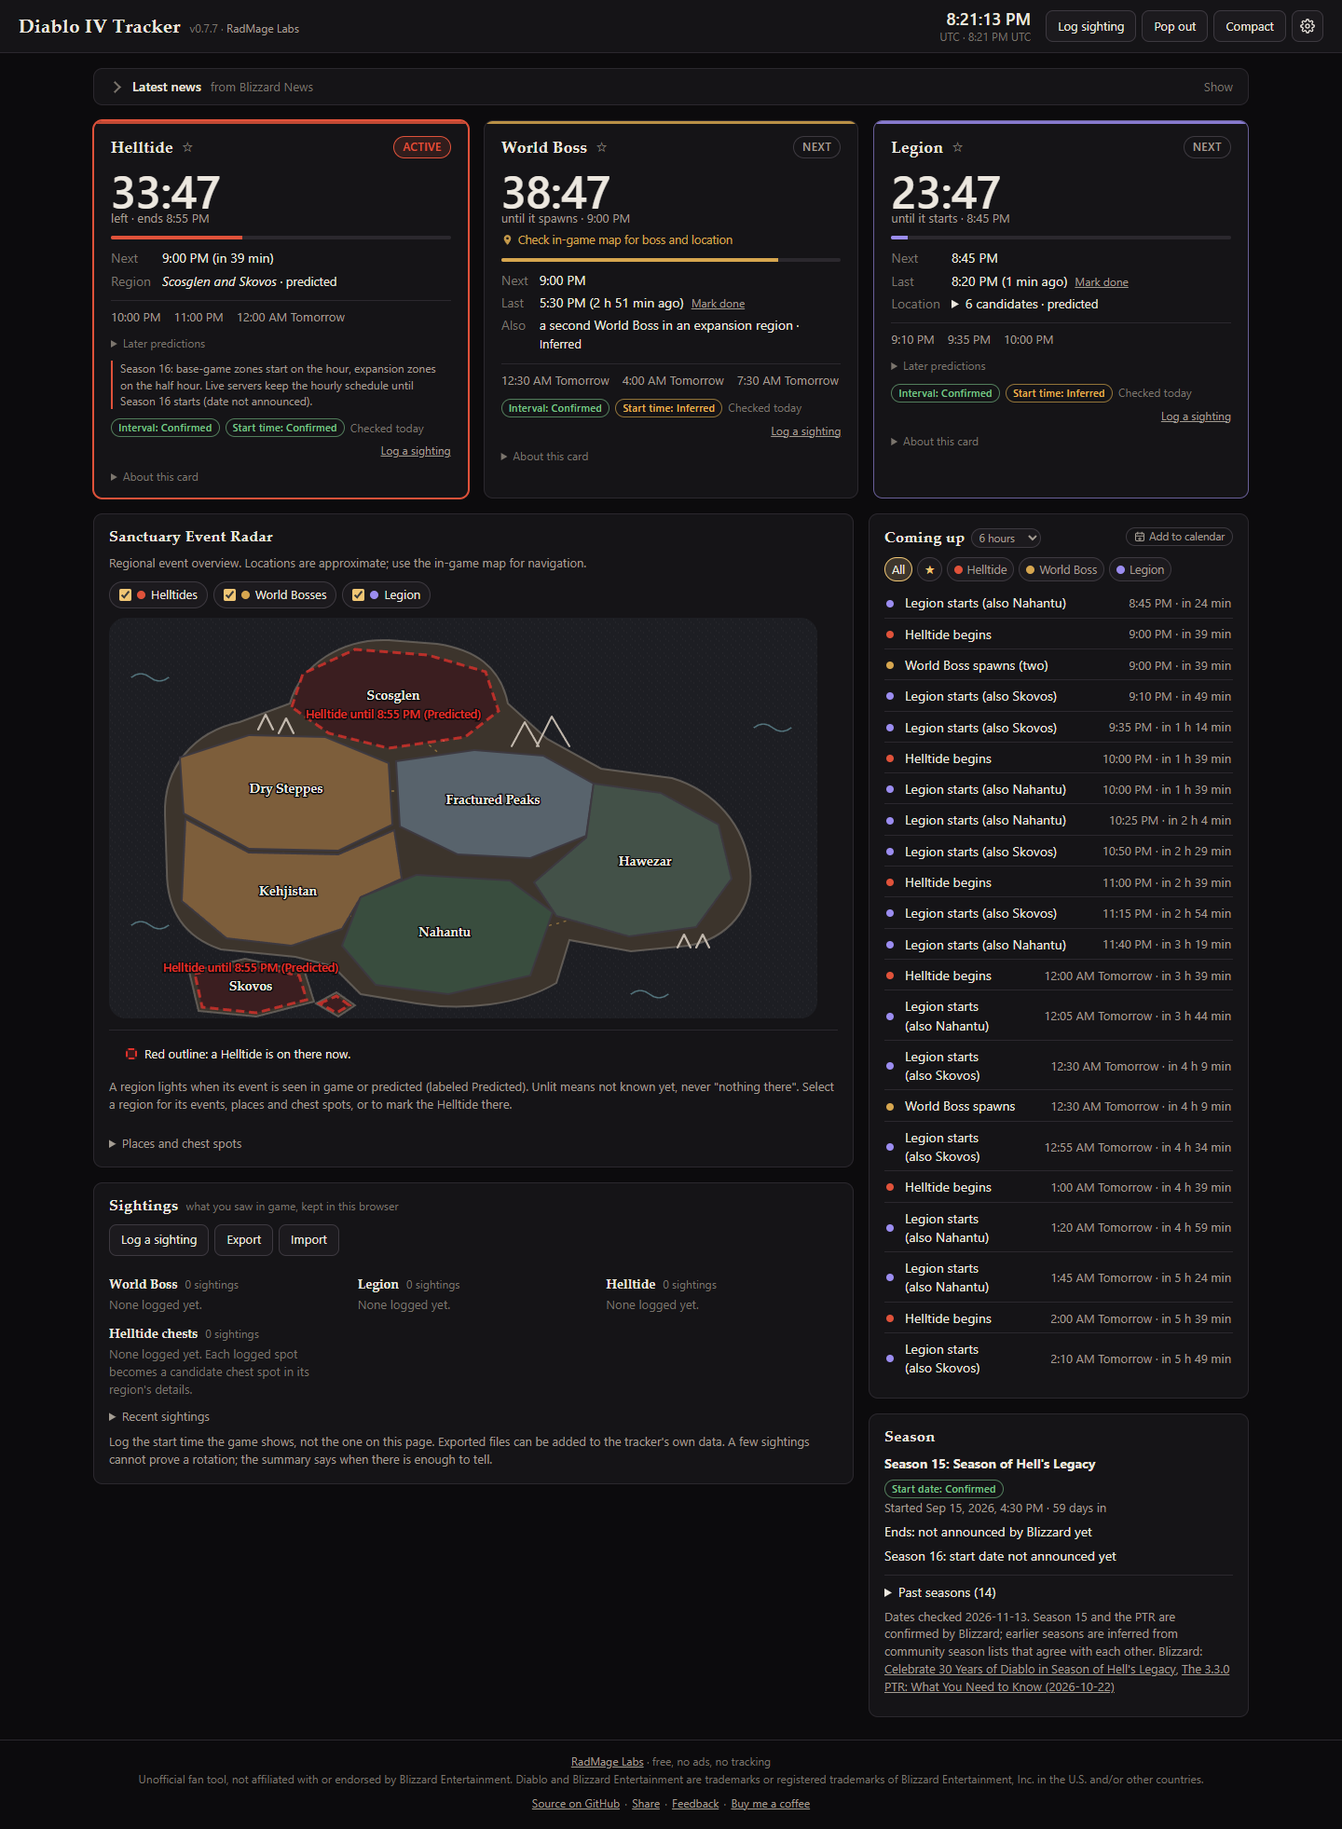
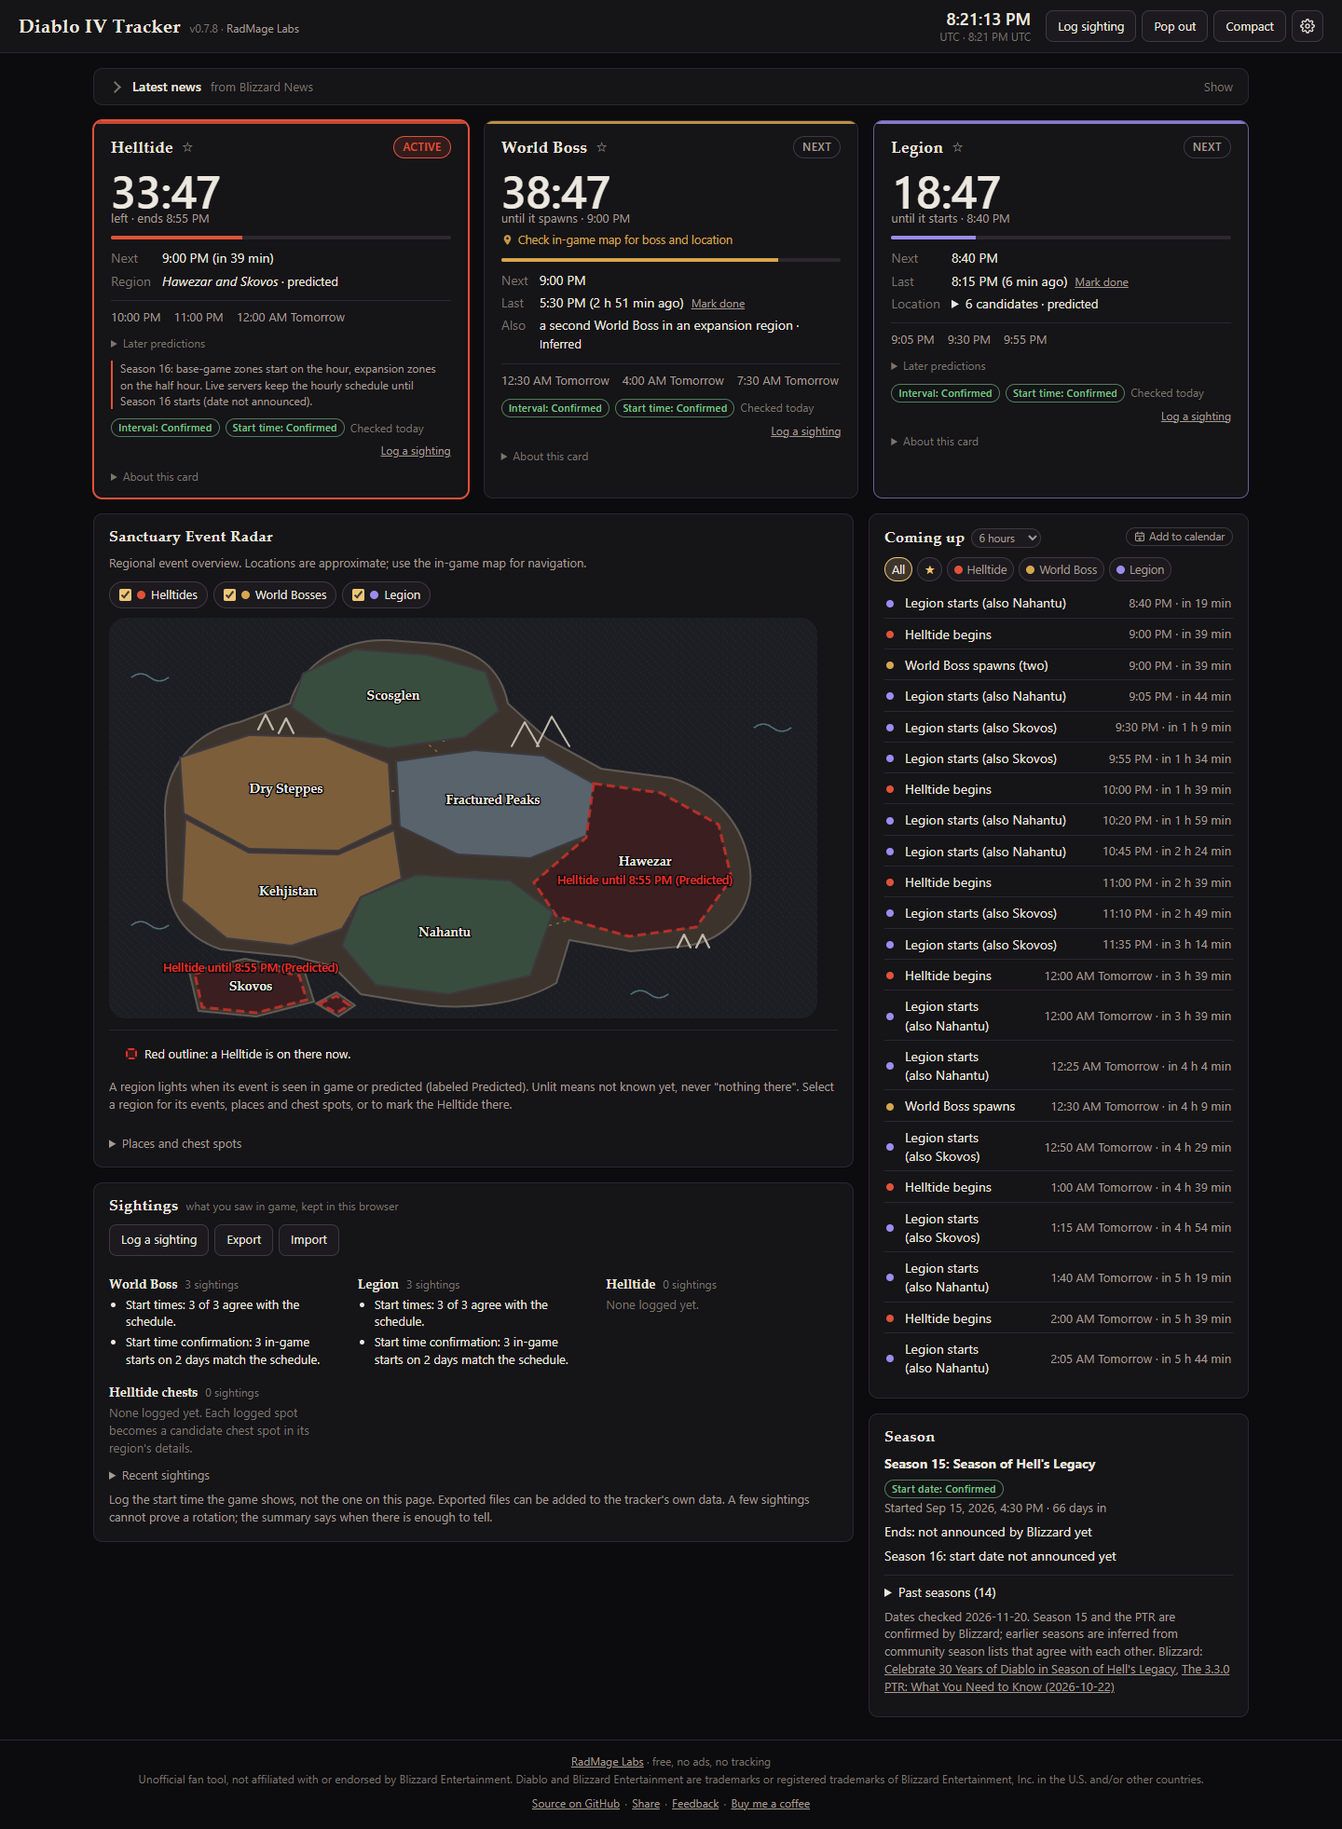
Diablo IV Tracker v0.7.8: World Boss and Legion start times confirmed in game, quieter Sightings panel, rules checked November 20
- World Boss and Legion start times Confirmed: 3 in-game starts on 2 UTC days each, none against;
  published as start times only in data/observations.json.
- Outside cross-check fixture deleted, as planned once both start times qualified.
- Sightings panel order notes wait for the visitor's own sightings; labels match the cards.
- Card line "In-game sightings"; rules and season dates rechecked 2026-11-20; README screenshot v0.7.8.

diff --git a/tests/verification.test.ts b/tests/verification.test.ts
@@ -9,6 +9,8 @@ const defs = eventDefinitions();
 const segs = (kind: 'worldBoss' | 'legion') => defs.find((d) => d.kind === kind)!.segments;
 // World Boss spawns calculated from the data: 2026-10-24 04:00 UTC and every 210 minutes.
 const wbSpawn = (n: number) => new Date(Date.UTC(2026, 9, 24, 4, 0) + n * 210 * MIN);
+// Legion starts: 2026-10-24 02:00 UTC and every 25 minutes.
+const lgStart = (n: number) => new Date(Date.UTC(2026, 9, 24, 2, 0) + n * 25 * MIN);
 
 let seq = 0;
 function start(at: Date, event: Observation['event'] = 'worldBoss', offsetMs = 0): Observation {
@@ -91,11 +93,26 @@ describe('the data refuses to over-claim', () => {
     return f;
   };
 
-  it('the shared sightings agree with the schedule, and are too few to confirm a start time', () => {
+  it('the shared sightings agree with the schedule and are enough to confirm both start times', () => {
     expect(crossCheck(EVENTS, SHARED_SIGHTINGS)).toEqual([]);
     for (const kind of ['worldBoss', 'legion'] as const) {
-      expect(anchorEvidence(SHARED_SIGHTINGS, segs(kind), kind).qualifies).toBe(false);
+      const e = anchorEvidence(SHARED_SIGHTINGS, segs(kind), kind);
+      expect(e).toEqual({ matching: 3, days: ['2026-10-24', '2026-11-20'], disagreeing: 0, qualifies: true });
     }
+  });
+
+  it('needs every shared start: without any one of them, Confirmed is refused', () => {
+    for (const o of SHARED_SIGHTINGS) {
+      const rest = SHARED_SIGHTINGS.filter((x) => x !== o);
+      expect(crossCheck(EVENTS, rest).join(), o.id).toMatch(new RegExp(`${o.event} schedule 0 phase: confirmed by sightings needs 3 matching starts on 2 days`));
+    }
+  });
+
+  it('refuses the shared data if a start is moved off the schedule, or no longer counts as seen', () => {
+    const moved = SHARED_SIGHTINGS.map((o, i) => (i === 0 ? { ...o, at: new Date(Date.parse(o.at) + 3 * MIN).toISOString() } : o));
+    expect(crossCheck(EVENTS, moved).join()).toMatch(/1 shared sighting\(s\) disagree with the schedule/);
+    const reported = SHARED_SIGHTINGS.map((o, i) => (i === 0 ? { ...o, provenance: 'reported' as const } : o));
+    expect(crossCheck(EVENTS, reported).join()).toMatch(/confirmed by sightings needs 3 matching starts on 2 days \(have 2 on 2\)/);
   });
 
   it('a shared record that came from a third party counts only once checked in game', () => {
@@ -113,7 +130,9 @@ describe('the data refuses to over-claim', () => {
   });
 
   it('accepts it with 3 matching starts on 2 days', () => {
-    expect(crossCheck(confirmBySightings(), [start(wbSpawn(0)), start(wbSpawn(1)), start(wbSpawn(7))])).toEqual([]);
+    // The Legion start time is confirmed by sightings too, so it needs its own three.
+    const legion = [0, 1, 60].map((n) => start(lgStart(n), 'legion'));
+    expect(crossCheck(confirmBySightings(), [start(wbSpawn(0)), start(wbSpawn(1)), start(wbSpawn(7)), ...legion])).toEqual([]);
   });
 
   it('rejects shared sightings that disagree with the schedule', () => {
@@ -159,7 +178,8 @@ describe('retiring the outside cross-check', () => {
   const covered = (['worldBoss', 'legion'] as const).every((k) => anchorEvidence(SHARED_SIGHTINGS, segs(k), k).qualifies);
 
   it('the outside fixture must be deleted once our own sightings confirm both anchors', () => {
-    // Today our sightings do not cover the anchors yet, so the fixture stays as a cross-check.
+    // Since v0.7.8 our sightings confirm both anchors, and the outside fixture is gone.
+    expect(covered).toBe(true);
     if (covered) expect(fixtures, 'our sightings now confirm both anchors: delete the outside cross-check fixture').toEqual([]);
     else expect(fixtures.length).toBeLessThanOrEqual(1);
   });

diff --git a/tests/events.test.ts b/tests/events.test.ts
@@ -2,22 +2,9 @@ import { describe, expect, it } from 'vitest';
 import { OfflineDetailsSource } from '../src/adapters/offline-details';
 import { DETAIL_REASONS, eventDefinitions } from '../src/data';
 import { eventStatus, type EventDefinition, type EventKind } from '../src/engine/events';
-import { nextAfter, startsBetween, type PeriodicSchedule } from '../src/engine/schedule';
+import type { PeriodicSchedule } from '../src/engine/schedule';
 
 const EVENT_DEFINITIONS = eventDefinitions();
-// A temporary outside cross-check (see its _about). The tests over it run only while it exists, so
-// deleting it once our own sightings confirm the anchors leaves the rest of the suite intact.
-interface CrossCheck {
-  helltides_schedule: Record<'worldBoss' | 'legion' | 'helltide', string[]>;
-  diablo4_life_next_world_boss: string;
-  d4guides_world_boss_baseline_unix: number;
-  d4guides_world_boss_pending_seconds: number;
-  diablo_companion_anchor_unix: { worldBoss: number; legion: number };
-  helltime_anchor_unix: { worldBoss: number; legion: number };
-}
-const external = Object.values(import.meta.glob('./fixtures/external-crosscheck-*.json', { eager: true, import: 'default' }))[0] as
-  CrossCheck | undefined;
-
 const MIN = 60000;
 
 function def(kind: EventKind): EventDefinition {
@@ -28,35 +15,9 @@ function def(kind: EventKind): EventDefinition {
 const sched = (kind: EventKind): PeriodicSchedule => def(kind).segments[0]!.schedule;
 const offline = new OfflineDetailsSource(DETAIL_REASONS);
 
-describe.skipIf(!external)('outside cross-check: schedules agree with times other trackers published for 2026-10-24', () => {
-  const observed = external!;
-  for (const [kind, key] of [['worldBoss', 'worldBoss'], ['legion', 'legion'], ['helltide', 'helltide']] as const) {
-    it(`${kind}: every observed start is a calculated start, and none is missing in that span`, () => {
-      const times = observed.helltides_schedule[key].map((t) => Date.parse(t));
-      const first = Math.min(...times);
-      const last = Math.max(...times);
-      const calculated = startsBetween(sched(kind), first, last + 1).map((o) => o.startMs);
-      expect(calculated).toEqual([...times].sort((a, b) => a - b));
-    });
-  }
-
-  it('diablo4.life\'s next World Boss is a calculated spawn', () => {
-    const t = Date.parse(observed.diablo4_life_next_world_boss);
-    expect(nextAfter(sched('worldBoss'), t - 1).startMs).toBe(t);
-  });
-
-  it('d4guides\' baseline (pending start + 30 min) is a calculated spawn', () => {
-    const t = (observed.d4guides_world_boss_baseline_unix + observed.d4guides_world_boss_pending_seconds) * 1000;
-    expect(nextAfter(sched('worldBoss'), t - 1).startMs).toBe(t);
-  });
-
-  it('the open-source anchors (one from 2023, one from 2026) land on calculated starts', () => {
-    for (const a of [observed.diablo_companion_anchor_unix, observed.helltime_anchor_unix]) {
-      expect(nextAfter(sched('worldBoss'), a.worldBoss * 1000 - 1).startMs).toBe(a.worldBoss * 1000);
-      expect(nextAfter(sched('legion'), a.legion * 1000 - 1).startMs).toBe(a.legion * 1000);
-    }
-  });
-
+// The start times are checked against our own in-game sightings (tests/verification.test.ts); the
+// outside cross-check that stood in for them until then was deleted in v0.7.8.
+describe('the schedules follow the published cycle rules', () => {
   it('matches the published cycle rules: boss at unix mod 12600 = 10800, Legion at mod 1500 = 1200', () => {
     expect((sched('worldBoss').anchorMs / 1000) % 12600).toBe(10800);
     expect((sched('legion').anchorMs / 1000) % 1500).toBe(1200);

diff --git a/tests/data.test.ts b/tests/data.test.ts
@@ -28,10 +28,14 @@ describe('the repository data passes its checks', () => {
     }
   });
 
-  it('marks the World Boss and Legion start times inferred until we observe them in game', () => {
+  it('marks the World Boss and Legion start times confirmed by our own in-game checks, not by Blizzard', () => {
     for (const id of ['worldBoss', 'legion'] as const) {
       const phase = EVENTS.events.find((e) => e.id === id)!.schedules[0]!.phase;
-      expect(phase.confidence).toBe('inferred');
+      expect(phase.confidence).toBe('confirmed');
+      expect(phase.sources.some((s) => s.kind === 'observation')).toBe(true);
+      // No Blizzard source, so the cross-check on the shared sightings is what allows it.
+      expect(phase.sources.some((s) => s.kind === 'blizzard')).toBe(false);
+      expect(phase.note).toMatch(/in-game countdown/);
     }
   });
 
@@ -42,8 +46,15 @@ describe('the repository data passes its checks', () => {
     }
   });
 
-  it('starts with no shared sightings and no chest locations (Dos keeps his own sightings private)', () => {
-    expect(SHARED_SIGHTINGS).toEqual([]);
+  it('shares start times only, and no chest locations (Dos keeps the rest of his sightings private)', () => {
+    expect(SHARED_SIGHTINGS.length).toBeGreaterThan(0);
+    for (const o of SHARED_SIGHTINGS) {
+      expect(Object.keys(o).sort()).toEqual(['at', 'event', 'id', 'note', 'recordedAt', 'timing']);
+      expect(['worldBoss', 'legion']).toContain(o.event);
+      expect(o.timing).toBe('start');
+      // Says how the start was read: from the in-game countdown, or that it was not recorded.
+      expect(o.note).toMatch(/^(Derived from the in-game countdown \(.+\), not a (start|spawn) watched|Checked in game at this spawn; how the start time was read was not recorded)\.$/);
+    }
     expect(LOCATIONS.helltideChests).toEqual([]);
   });
 });
@@ -51,7 +62,9 @@ describe('the repository data passes its checks', () => {
 describe('the checks catch bad edits', () => {
   it('rejects "confirmed" backed only by community sources', () => {
     const bad: EventsFile = clone(EVENTS);
-    bad.events[1]!.schedules[0]!.phase.confidence = 'confirmed';
+    const phase = bad.events[1]!.schedules[0]!.phase;
+    phase.confidence = 'confirmed';
+    phase.sources = phase.sources.filter((s) => s.kind === 'community');
     expect(checkEvents(bad).join()).toMatch(/worldBoss schedule 0 phase: confirmed needs a Blizzard source or our own in-game observation/);
   });
 

diff --git a/src/ui/sightings.ts b/src/ui/sightings.ts
@@ -143,8 +143,10 @@ export class SightingsPanel {
       }
       const reported = mine.filter((o) => !isSeen(o)).length;
       if (reported) lines.push(h('li', {}, `${reported} secondhand report${reported === 1 ? '' : 's'}: shown on the cards for their own event, never used as evidence.`));
-      if (mine.length) {
-        for (const o of this.hooks.orders(kind)) lines.push(h('li', { class: o.confidence === 'unknown' ? '' : 'ok' }, badge(o.label, o.confidence), ` ${o.text}`));
+      // The order notes wait for the visitor's own sightings of this event: the shared start times
+      // alone do not bring them out. Each card's About this card explains them either way.
+      if (this.hooks.local().some((o) => o.event === event)) {
+        for (const o of this.hooks.orders(kind)) lines.push(h('li', { class: o.confidence === 'unknown' ? '' : 'ok' }, badge(o.label, o.confidence, o.status), ` ${o.text}`));
       }
       return h('div', {},
         h('h3', {}, `${EVENT_NAMES[event]} `, h('span', { class: 'note' }, `${mine.length} sighting${mine.length === 1 ? '' : 's'}`)),

diff --git a/src/ui/cards.ts b/src/ui/cards.ts
@@ -355,7 +355,7 @@ export class EventCard {
     this.about.replaceChildren(...nodes(
       seg ? claimBlock('Interval', seg.interval, null) : null,
       seg ? claimBlock('Start time', seg.phase, phaseExtra) : null,
-      extras.sightings ? h('p', { class: 'claim' }, `Your sightings: ${extras.sightings}`) : null,
+      extras.sightings ? h('p', { class: 'claim' }, `In-game sightings: ${extras.sightings}`) : null,
       unknowns.length ? h('div', { class: 'claim' }, h('p', {}, badge('Location', 'unknown')),
         ...unknowns.map((u) => h('p', { class: 'source' }, u.reason))) : null,
       ...extras.orders.map((o) => h('div', { class: 'claim order-note' }, h('p', {}, badge(o.label, o.confidence, o.status), ` ${o.text}`))),

diff --git a/index.html b/index.html
@@ -33,7 +33,7 @@
   <header class="topbar">
     <div class="brand">
       <h1>Diablo IV Tracker</h1>
-      <span class="tag">v0.7.7 · <a href="https://radmagelabs.com/">RadMage Labs</a></span>
+      <span class="tag">v0.7.8 · <a href="https://radmagelabs.com/">RadMage Labs</a></span>
     </div>
     <div class="clock" id="clock" aria-label="Current time">
       <div class="now" id="clock-now">--:--</div>

diff --git a/README.md b/README.md
@@ -8,7 +8,7 @@ browser from rules kept in this repository; it does not depend on any other trac
 
 Live at https://radmagelabs.com/d4/
 
-![Diablo IV Tracker v0.7.7 at 8:21 PM UTC on a first visit: the Latest news bar from Blizzard News, closed, above the cards; an active Helltide with 33:47 left, predicted in Scosglen and Skovos, which the Sanctuary Event Radar outlines in red; the World Boss in 38:47 with a second World Boss in an expansion region, a Mark done link on the last spawn and a prompt to check the in-game map for boss and location; the next Legion in 23:47 with its six candidate sites folded, four base-game and two expansion; each card marked Checked today; six hours of coming-up starts with a how-far-ahead dropdown, Add to calendar, and All, starred, Helltide, World Boss and Legion picks, each Legion with its predicted expansion region; the empty sightings log; the Season 15 panel with dates checked 2026-11-13 and the ended 3.3.0 PTR folded under Past seasons; and the footer, ending with Source on GitHub, Share, Feedback and Buy me a coffee](screenshots/dashboard.png)
+![Diablo IV Tracker v0.7.8 at 8:21 PM UTC on a first visit: the Latest news bar from Blizzard News, closed, above the cards; an active Helltide with 33:47 left, predicted in Hawezar and Skovos, which the Sanctuary Event Radar outlines in red; the World Boss in 38:47 with a second World Boss in an expansion region, a Mark done link on the last spawn and a prompt to check the in-game map for boss and location; the next Legion in 18:47 with its six candidate sites folded; each card marked Start time: Confirmed and Checked today; six hours of coming-up starts with a how-far-ahead dropdown, Add to calendar, and All, starred, Helltide, World Boss and Legion picks, each Legion with its predicted expansion region; the sightings log with the shared start-time checks, 3 of 3 agreeing with the schedule for the World Boss and for the Legion; the Season 15 panel with dates checked 2026-11-20 and Past seasons folded; and the footer, ending with Source on GitHub, Share, Feedback and Buy me a coffee](screenshots/dashboard.png)
 
 ## What it shows
 
@@ -85,13 +85,21 @@ Every piece of data carries one of three labels, shown as badges on the page:
 | Event | Interval | Where the cycle starts |
 | --- | --- | --- |
 | Helltide | every hour, active 55 minutes (Confirmed, patch 1.3.0) | on the hour, UTC (Confirmed, same note) |
-| World Boss | every 3.5 hours (Confirmed, patch 1.2.0) | Unix time mod 12600 = 10800, e.g. 04:00, 07:30, 11:00 UTC on 2026-10-24 (Inferred) |
-| Legion | every 25 minutes (Confirmed, patch 1.2.0) | Unix time mod 1500 = 1200, e.g. 01:35, 02:00, 02:25 UTC (Inferred) |
+| World Boss | every 3.5 hours (Confirmed, patch 1.2.0) | Unix time mod 12600 = 10800, e.g. 04:00, 07:30, 11:00 UTC on 2026-10-24 (Confirmed, in-game checks) |
+| Legion | every 25 minutes (Confirmed, patch 1.2.0) | Unix time mod 1500 = 1200, e.g. 01:35, 02:00, 02:25 UTC (Confirmed, in-game checks) |
 
-Blizzard publishes the intervals but not where the World Boss and Legion cycles start. Those start
-points are marked Inferred until our own in-game sightings confirm them: **at least three in-game
-starts that match the schedule, on at least two different (UTC) days, and none that disagree.** The
-data checks refuse a Confirmed start point without that, and the cards show the progress.
+Blizzard publishes the intervals but not where the World Boss and Legion cycles start. A start point
+is Confirmed only by my own in-game checks: **at least three in-game starts that match the
+schedule, on at least two different (UTC) days, and none that disagree.** Both met that on
+November 20, 2026:
+
+- World Boss: October 24 at 14:30 and 21:30 UTC, November 20 at 07:00 UTC.
+- Legion: October 24 at 19:55 and 20:45 UTC, November 20 at 06:05 UTC.
+
+Five of the six were read from the in-game countdown, to the second, not watched as they began;
+the October 24, 14:30 spawn was checked in game without its countdown noted. They are published in
+`data/observations.json`, start times only. The data checks refuse a Confirmed start point without
+enough of them, and a card shows the progress while a start point is still Inferred.
 
 Every fourth World Boss spawn (Unix time mod 50400 = 10800, every 14 hours) brings a second boss in
 an expansion region. That is Inferred: Blizzard does not document it, and every dated first-hand

diff --git a/CHANGELOG.md b/CHANGELOG.md
@@ -1,5 +1,32 @@
 # Changelog
 
+## v0.7.8 (2026-11-20)
+
+- The World Boss and Legion start times are Confirmed. Blizzard publishes the intervals but not
+  where the cycles start, so they were Inferred until my own in-game checks met the rule: at least
+  three matching starts on two different UTC days, none against. World Boss: October 24 at 14:30
+  and 21:30 UTC and November 20 at 07:00 UTC. Legion: October 24 at 19:55 and 20:45 UTC and
+  November 20 at 06:05 UTC. Five of the six were read from the in-game countdown, to the second,
+  not watched as they began; the cards say so.
+- Those six start times are published in `data/observations.json`, the start time only: no place,
+  boss, region or screenshot. The data checks still refuse Confirmed without them, and the tests
+  show that removing any one of them, or moving one off the schedule, brings the refusal back.
+- The outside cross-check (start times read from other trackers in October, kept only for the
+  tests until my own checks covered both start times) is deleted, as planned.
+- A card's About line counting sightings now reads "In-game sightings" instead of "Your
+  sightings", since it includes the shared start times. The Sightings panel shows its notes on the
+  boss order and the expansion Legion order only once you have logged a sighting of that event
+  yourself (the shared start times alone do not bring them out; each card's About this card
+  explains them either way), and labels each one as its card does ("Predicted", not "Inferred").
+- The rules and season dates were checked again on November 20, 2026, against Blizzard's own
+  pages. Nothing changed: no 3.3.0 patch notes, no Season 15 end or Season 16 start date, and the
+  Season 16 Helltide change is still only in the PTR notes, so the Helltide schedule stays every
+  hour on the hour. Blizzard's November 24 Developer Update livestream (11:00 AM PT) shows in
+  Latest news as Blizzard's newest post.
+- Unchanged: every schedule and countdown, the Helltide regions, the World Boss boss order and
+  its 7-day hold, the Legion site groups and the expansion Legion order (still Predicted), the
+  radar, Coming up, stars, done marks, reminders, Add to calendar and the pop-out.
+
 ## v0.7.7 (2026-11-13)
 
 - "Checked today" is judged by your own calendar date. The cards counted the days since the rules
